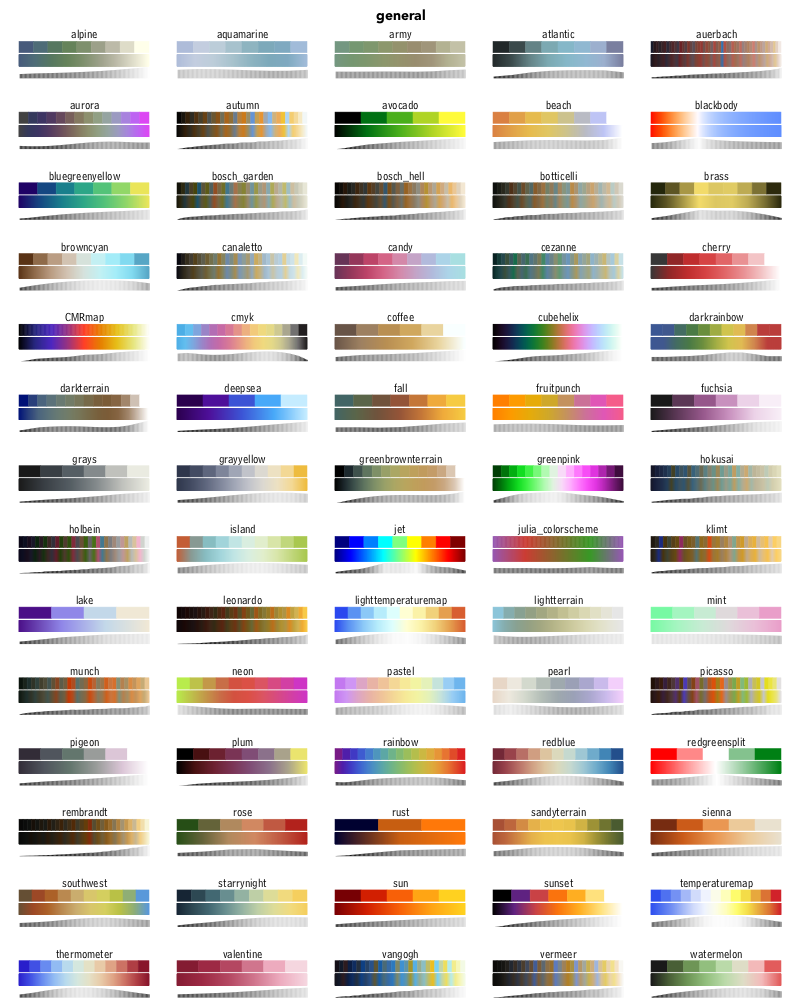
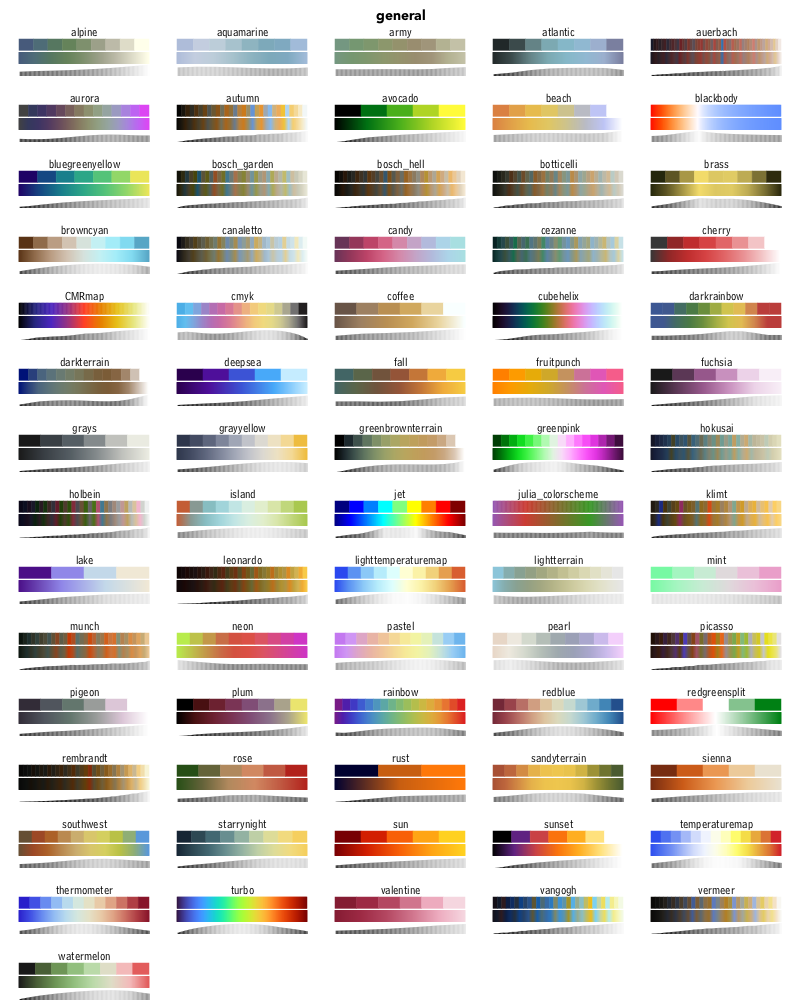
add turbo

diff --git a/LICENSE.md b/LICENSE.md
@@ -79,3 +79,9 @@ OUT OF OR IN CONNECTION WITH THE SOFTWARE OR THE USE OR OTHER DEALINGS IN THE
 SOFTWARE.
 
 see https://github.com/matplotlib/cmocean
+
+## turbo colormap
+
+see https://ai.googleblog.com/2019/08/turbo-improved-rainbow-colormap-for.html
+Copyright 2019 Google LLC.
+SPDX-License-Identifier: Apache-2.0

diff --git a/CHANGELOG.md b/CHANGELOG.md
@@ -1,5 +1,17 @@
 # Changelog
 
+## [v3.4.0] - 2019-08-21
+
+### Added
+
+- turbo
+
+### Changed
+
+### Removed
+
+### Deprecated
+
 ## [v3.3.0] - 2019-06-01
 
 ### Added
